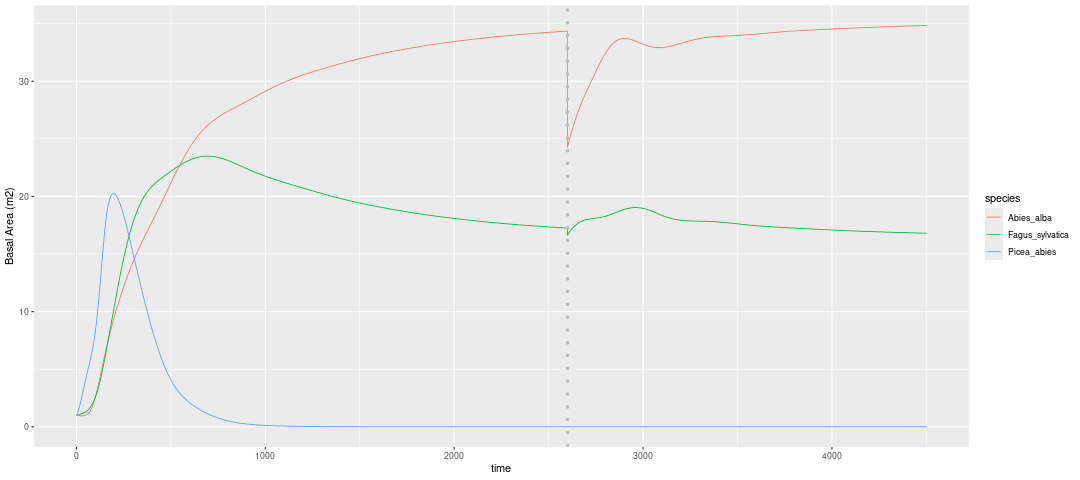
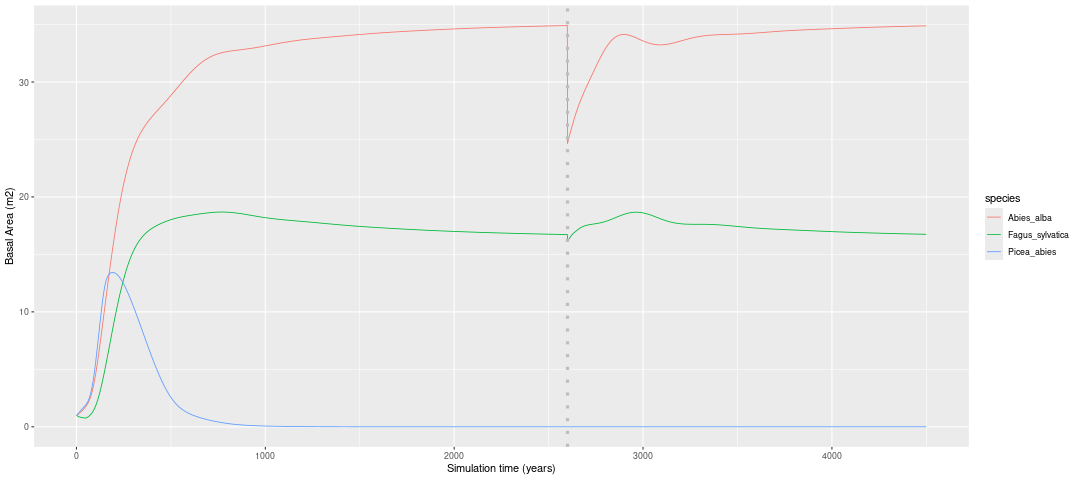
review from Thomas, Arnaud

diff --git a/inst/paper/paper.md b/inst/paper/paper.md
@@ -67,7 +67,7 @@ In addition `matreex` integrates numerous functions to run simulations for multi
 
 # Software design
 
-A key feature of the `matreex` package is the development of IPM integration functions designed for complex tree growth kernels.
+A key feature of the `matreex` package is the development of IPM integration functions designed for complex forest tree growth kernels.
 As trees have a small annual growth rate, most of the integration effort is concentrated near the diagonal of the matrix.
 We achieve this by combining different integration methods (Gauss-Legendre and Mid-bin) at different distances of the diagonal, which helps speed up the integration.
 This speed is crucial as we integrate a matrix per competition level (based on species basal area) to account for density dependence.
@@ -76,7 +76,7 @@ More details about the integration are provided in the [`matreex` webpage](https
 ![Figure 1: Combination of different integration methods. Dashed line is the identity where $z_t=z_t+1$ and dark blue distribution is an expected distribution of the growth kernel.\label{fig:band_matrix](fig/figures_files/figure-html/band_matrix-1.png)
 
 A crucial development objective was to simplify the workflow for ecological researchers, who may work on multispecies models with climate variation, disturbances, and harvesting.
-To facilitate this, `matreex` provides fitted vital models for European tree species directly in the package [@kunstler2021; @guyennon2023; @barrere2024], although other new models can be used.
+To facilitate this, `matreex` provides fitted vital models for European tree species directly in the package [@kunstler2021; @guyennon2023; @barrere2024], although other new vital models can be used.
 The object-oriented architecture limits code complexity, allowing users to focus on desining large simulation experiments to tackle their ecological questions.
 
 ```
@@ -86,9 +86,10 @@ library(ggplot2)
 
 # select a climate to run in
 data("climate_species")
+# N is the climate number to user, 2 being the optimum climate for the species
 climate <- subset(climate_species, N == 2 & sp == "Fagus_sylvatica", select = -sp)
 
-# integrate ipms and integrate them in species object
+# integrate ipms and store them in species object
 Picea <- species(IPM = make_IPM(
     species = "Picea_abies", fit = fit_Picea_abies,
     climate = climate, clim_lab = "optimum clim", 
@@ -130,7 +131,8 @@ Sim <- sim_deter_forest(
 Sim  %>%
     dplyr::filter(var == "BAsp", ! equil) |>
     ggplot(aes(x = time, y = value, color = species)) +
-    geom_line(linewidth = .4) + ylab("Basal Area (m2)")
+    geom_line(linewidth = .4) + 
+    ylab("Basal Area (m2)") + xlab("Simulation time (years)") 
 ```
 
 ![Figure 2: Simulation output for 4 species. \label{fig:simulation}](fig/simulation.png)
@@ -138,7 +140,7 @@ Sim  %>%
 ## Climatic temporal variability
 
 Modelling forest dynamics under fluctuating climatic conditions can be computationally expensive because the IPMs growth kernel must be integrated for every climatic condition.
-To avoid this high computational cost, we implement a new integration method pre-integrating IPM growth matrix blocks for a range of mean growth rate.
+To avoid this high computation cost, we implement a new method involving the pre-integration of IPM growth matrix blocks for different mean growth rates.
 The IPM for each climatic conditions is then reassembled from these mean growth rate IPM matrix blocks (mu matrix).
 This allows to speed-up the simulations.
 This is described in the [matreex climate variation vignette](https://lessem.pages-forge.inrae.fr/rpackages/matreex/articles/mu_simulation.html).
@@ -146,11 +148,11 @@ This is described in the [matreex climate variation vignette](https://lessem.pag
 ## Disturbance
 
 One key originality of `matreex` is the possibility to apply storm, fire, biotic of snow disturbances of varying intensity (ranging from 0 to 1) at any time of the IPM simulations.
-When a disturbance strikes a given year of the simulation, the survival function is replaced by the species-specific equations from Barrere et al. (2023).
+When a disturbance strikes the stand a given year of the simulation, the survival function is replaced by the species-specific equations from @barrere2024.
 These equations quantify the annual mortality probability of a tree in a disturbed stand as a function of its species, diameter at breast height, stand structure, nature and intensity of the disturbance.
-A disturbance striking two different stands with the same intensity will thus result in different mortality rates, depending notably on the sensitivity of the tree species present in the plot.
+A disturbance striking two different stands with the same intensity will thus result in different mortality rates, depending notably on the sensitivity of the tree species present in the stand.
 Disturbances in `matreex` are described in details in @barrere2024 and in @barrereprep.
-[Figure 3](@fig:disturbance) shows an example of multispecies simulations with storm disturbance from @barrere2024.
+[Figure 3](@fig:disturbance) shows an example of multispecies simulations with storm disturbance.
 
 ![Figure 3: Simulation output for 3 species with a disturbance at $time = 2600$.](fig/disturbance.png){#fig:disturbance}
 
@@ -163,20 +165,20 @@ This regional pool approach is extensively presented in @barrereprep.
 
 ## Harvesting
 
-Since most temperate forests are managed, it is crucial to incorporate silvicultural effects into the simulations.
+Since most temperate forests are managed, it is crucial to incorporate silvicultural interventions into the simulations.
 We implemented three management strategies:
 
 - First, we implemented a simple constant annual harvesting rates accounting for the effect of the harvesting rates observed in NFI data used for the model calibration [@kunstler2021].
 
 - Second, we implement an even-aged management.
-The objective is to apply harvesting typical of even-aged harvesting, based on a single cohort.
+The objective is to apply typical even-aged harvesting, based on a single cohort.
 Trees are harvested with successive thinning during stand development until the final harvest.
 Thinning harvest are based on the distance to a self-thinning boundary, based on @Aussenac2021.
 This is easily connected with management guidelines.
 
 - Third, we implement an unven-aged harvesting.
 The uneven-aged harvest scenario consists in selective harvesting across all size classes with the objective to reach a stable size structure with continuous replacement of large mature trees.
-This scenario depends on the basal area of the stand and the size distribution of the tree (building on @guillemot2014).
+This scenario depends on the basal area of the stand and the size distribution of the trees (building on @Lafond2014).
 These three managements are described in the [matreex harvesting vignette](https://lessem.pages-forge.inrae.fr/rpackages/matreex/articles/Harvesting.html).
 
 # Research impact statement
@@ -194,9 +196,9 @@ No generative AI tools were used in the development of this software, the writin
 
 # Acknowledgements
 
-JB, MJ, BR and GK are funded through the BiodivClim ERA-Net Cofund,(joint BiodivERsA Call on “Biodiversity and Climate Change”, 2019-2020) with national co–funding through ANR (France, project ANR-20-EBI5-0005-03).
+JB, MJ, BR and GK are funded through the BiodivClim ERA-Net Cofund (joint BiodivERsA Call on “Biodiversity and Climate Change”, 2019-2020) with national co–funding through ANR (France, project ANR-20-EBI5-0005-03).
 MJ and GK were funded by the ANR DECLIC (grant ANR-1520-CE32-0005-01) and REGE-ADAPT PEPR FORESTT France 2030 (ANR-24-PEFO-0006).
 JB, MJ, BR and GK are funded by the RESONATE H2020 project (grant 101000574).
-G.K. and A.G. received support from the REFORCE – EU FP7ERA-NET Sumforest 2016 through the call ‘Sustainable forests for the society of the future’, with the ANR as national funding agency (grant ANR-16-SUMF-0002).
+GK, BR and AG received support from the REFORCE – EU FP7ERA-NET Sumforest 2016 through the call ‘Sustainable forests for the society of the future’, with the ANR as national funding agency (grant ANR-16-SUMF-0002).
 
 # References
